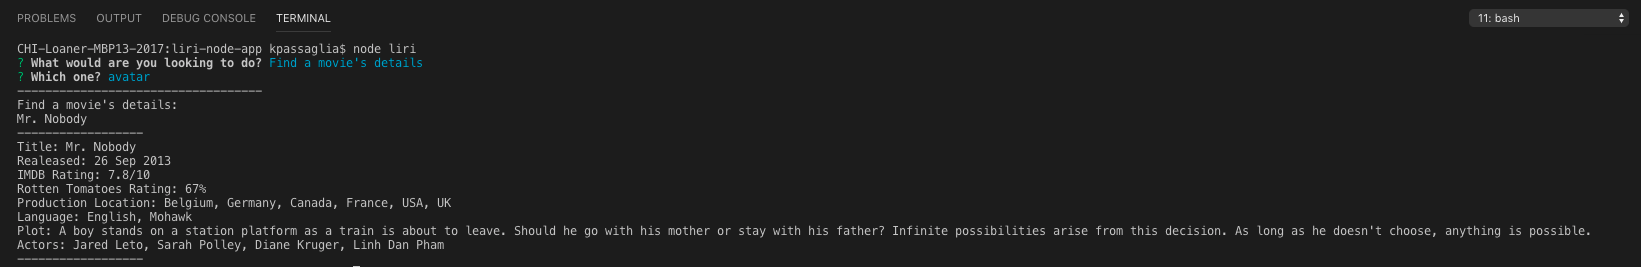
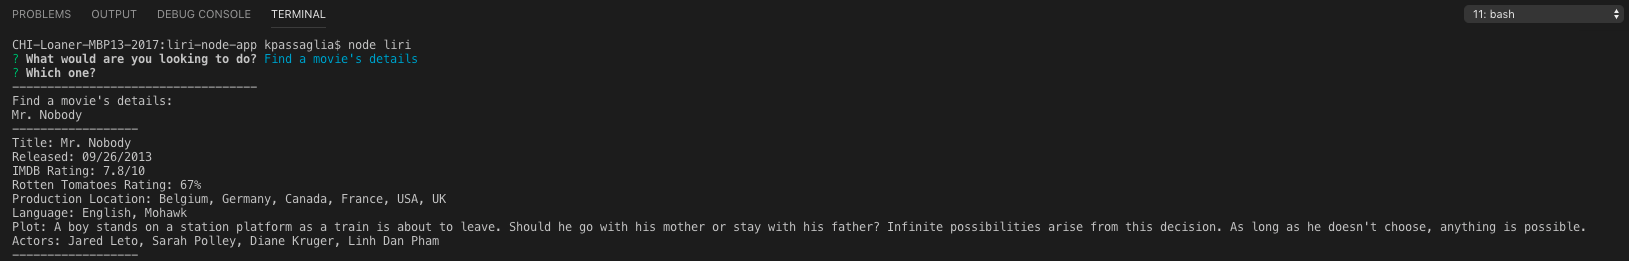
updated screenshots in readme

diff --git a/liri.js b/liri.js
@@ -5,7 +5,7 @@ require("dotenv").config();
 const keys = require("./keys.js");
 const axios = require("axios");
 const inquirer = require("inquirer");
-var moment = require('moment');
+const moment = require('moment');
 //const bandsintown = require("bandsintown")("codingbootcamp");
 //var spotify = new Spotify(keys.spotify);
 
@@ -59,8 +59,8 @@ inquirer.prompt([{
             console.log(selectedSubject);
             axios.get("http://www.omdbapi.com/?apikey=trilogy&t=" + selectedSubject).then(response => {
                     console.log("------------------")
-                    console.log("Title: " + response.data.Title, )
-                    console.log("Realeased: " + response.data.Released)
+                    console.log("Title: " + response.data.Title)
+                    console.log("Released: " + moment(response.data.Released, "DD MMM YYYY").format("MM/DD/YYYY"))
                     console.log("IMDB Rating: " + response.data.Ratings[0].Value)
                     console.log("Rotten Tomatoes Rating: " + response.data.Ratings[1].Value)
                     console.log("Production Location: " + response.data.Country)

diff --git a/README.md b/README.md
@@ -1,15 +1,9 @@
 # liri-node-app
 node app assignment
 
-
-Submission Needs- 
-Gif
-Video
-
-
-
 Additions:
-Used Inquirer prompt instead of process.argv commands to ensure there are not syntax errors....also its alot faster then typing out the full command each time.  Also, wanted to increase the user expereince a bit so I switched the commands to the following:
+Used Inquirer prompt instead of process.argv commands to ensure there are not syntax errors....also its alot faster then typing out the full command each time.  Used moment to convert OMDB release date to match the fromating from the adjusted Bandsintown date change.    
+Also, wanted to increase the user expereince a bit so I switched the commands to the following:
 
 concert-this ==> Find a band's upcoming shows
 spotify-this-song  ==>  Find a song's details
@@ -20,7 +14,7 @@ Inquirer prompt in console
 ![Screenshot](inquirer.png)
 
 Bandsintown API via axios response in console
-![Screenshot](bandsintowm.png)
+![Screenshot](bandsintown.png)
 
 Spotify API re
 ![Screenshot](#.png)
